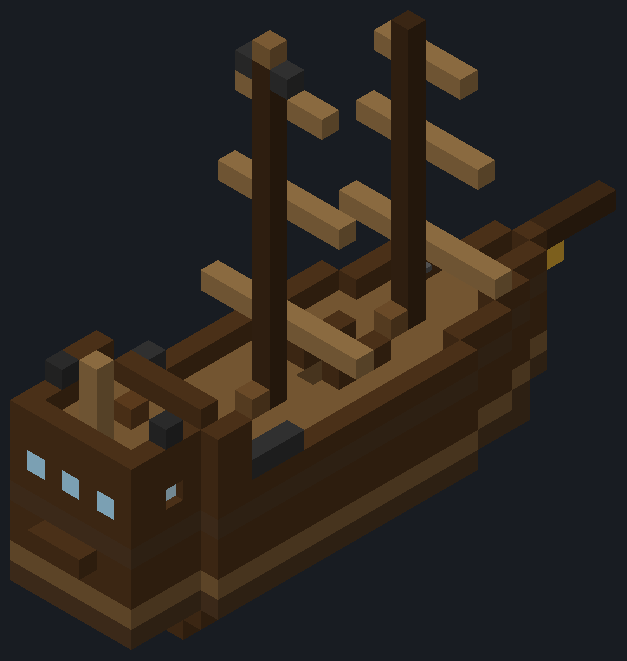
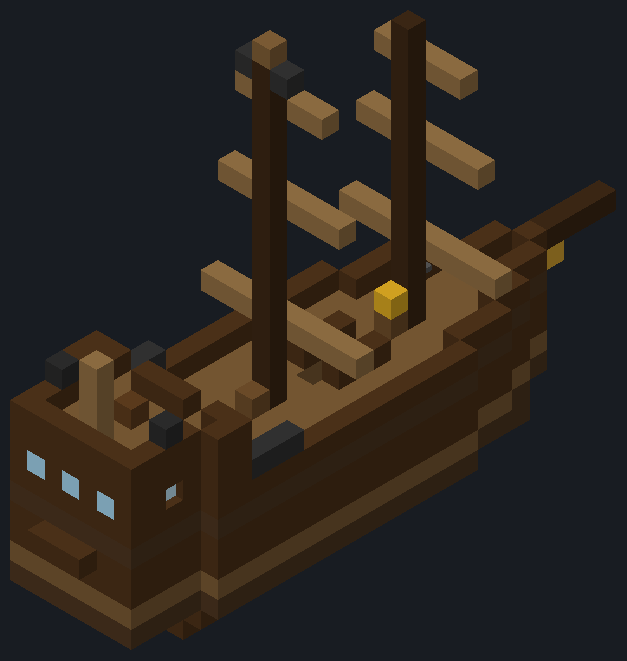
fix(ship): keep the deck beside the brig's ratline latches free

Changed region(s): [[0.5758, 0.4236, 0.6667, 0.4841], [0.1515, 0.5144, 0.2424, 0.6051], [0.303, 0.5749, 0.3636, 0.6657]]

diff --git a/art/schematics/brig.py b/art/schematics/brig.py
@@ -142,8 +142,10 @@ for x in (2, 4, 6):
 for x in (1, 7):
     put(x, 9, 28, "pane")
 
-# stairs from the weather deck up to the quarterdeck on both sides (landing on the quarterdeck at z QD)
-for x in (1, 7):
+# stairs from the weather deck up to the quarterdeck on both sides (landing on the quarterdeck at z QD), one block in
+# from the rail so the deck beside the ratline latches (x 1 and 7, z 22..24) stays free for the climber
+STAIR_XS = (2, 6)
+for x in STAIR_XS:
     fit(x, 8, QD - 3, "stair")
     fit(x, 8, QD - 2, "top")
     fit(x, 9, QD - 2, "stair")
@@ -189,7 +191,7 @@ def railing_cells():
             kind = "rope" if zs == QD and not edge(x, DECK, zs) else "rail"
             out[(x, 11, zs)] = (kind, dirs)
     # gaps over the stair landings in the quarterdeck front
-    for x in (1, 7):
+    for x in STAIR_XS:
         out.pop((x, 11, QD))
     # rope railing round the companion opening
     for zs in (14, 15, 16):
@@ -239,8 +241,8 @@ fit(CX, QD_FLOOR + 1, 29, "pedestal")
 fit(CX, QD_FLOOR + 2, 29, "pole_bottom")
 fit(CX, QD_FLOOR + 3, 29, "pole_middle")
 fit(CX, QD_FLOOR + 4, 29, "pole_top")
-fit(3, 9, QD - 1, "bell")
-for x in (2, 6):
+fit(CX, 9, FMZ + 1, "bell_s")              # on the fore mast's after face, over the fore winch
+for x in (3, 5):
     fit(x, 9, QD - 1, "lantern_n")
 fit(1, 6, 12, "lantern_e")
 fit(7, 6, 12, "lantern_w")
@@ -409,7 +411,7 @@ palette = {
     "pole_bottom": "pirates_n_ships:flagpole[facing=north,flag=none,part=bottom]",
     "pole_middle": "pirates_n_ships:flagpole[facing=north,flag=none,part=middle]",
     "pole_top": "pirates_n_ships:flagpole[facing=north,flag=none,part=top]",
-    "bell": "pirates_n_ships:ships_bell[face=wall,facing=north]",
+    "bell_s": "pirates_n_ships:ships_bell[face=wall,facing=south]",
     "lantern_n": "pirates_n_ships:ship_lantern[face=wall,facing=north]",
     "lantern_e": "pirates_n_ships:ship_lantern[face=wall,facing=east]",
     "lantern_w": "pirates_n_ships:ship_lantern[face=wall,facing=west]",

diff --git a/art/README.md b/art/README.md
@@ -2809,11 +2809,11 @@ hull, spruce decks, masts and yards, the railing family in dark oak, like the sl
   `barrel_blocking`). **Weather deck** 7 with the dark oak railing at y 8, a wide port (two ports) a side at z 13..14
   and a gate a side at z 17. **Cabin** y 8..9 aft of z 25 under the raised **quarterdeck** (floor 10), its rails at
   y 11: dark oak railing at the sides and the taffrail, a dark oak rope railing along the break (z 25) with gaps over
-  the two stair landings.
+  the two stair landings (x 2 and 6).
 - **Waterline row 3**: keel, bottom and hold under water, the gun deck floor just above it, the ports 1.9 blocks clear.
   The auto-ballast keeps her level (BrigGameTests measures it).
-- **Getting about:** stairs from the weather deck to the quarterdeck on both sides (x 1 and 7, z 22..24, landing on
-  z 25); the **companion**: a three-block opening in the weather deck (x 4, z 14..16, rope railing on both sides) with
+- **Getting about:** stairs from the weather deck to the quarterdeck on both sides (x 2 and 6, z 22..24, landing on
+  z 25; one block in from the rail, so the deck beside the ratline latches stays free for a climber); the **companion**: a three-block opening in the weather deck (x 4, z 14..16, rope railing on both sides) with
   a stair in the deck at z 17 and two below, down to the gun deck at z 14, all in half steps a crew member walks;
   hatches and ladders into the holds (the pathfinder has no ladders: only players and the pump reach the hold).
 - **Rig:** fore mast z 11 (y 1..22), main mast z 19 (y 1..24); three yards each, one block forward of the mast (the
@@ -2823,9 +2823,9 @@ hull, spruce decks, masts and yards, the railing family in dark oak, like the sl
   bowsprit [4, 9, 1]: 0.5 x 11 x 9 = 49.5 blocks².
 - **Stations and gear:** helm on the quarterdeck [4, 11, 27] (facing south), capstan forward [4, 8, 7] (the anchor),
   bilge pump on the gun deck over the main hold [5, 5, 20] (its intake reaches the hold, `pump_reach` 4), the ship's
-  bell on the cabin front [3, 9, 24], the flag on a three-block staff in a flag pedestal at the taffrail
+  bell on the fore mast's after face over the fore winch [4, 9, 12], the flag on a three-block staff in a flag pedestal at the taffrail
   [4, 11..14, 29], a lion figurehead under the bowsprit, three name boards on the transom [3..5, 6, 31], three stern
-  windows in the cabin's stern [2|4|6, 9, 30], ship's lanterns on the cabin front, the gun deck sides and in the cabin.
+  windows in the cabin's stern [2|4|6, 9, 30], ship's lanterns on the cabin front [3|5, 9, 24], the gun deck sides and in the cabin.
 - **Below:** eight hammocks: two fore and aft in the fore berth (x 2 and 6, z 9..10, between the hull and a post),
   four across the gun deck between the guns (z 22 and 24, hull and post), two across the cabin; the galley at the fore
   end of the gun deck's waist (pantry [1, 5, 12], water barrel [7, 5, 12]); cargo crates and barrels in all three
